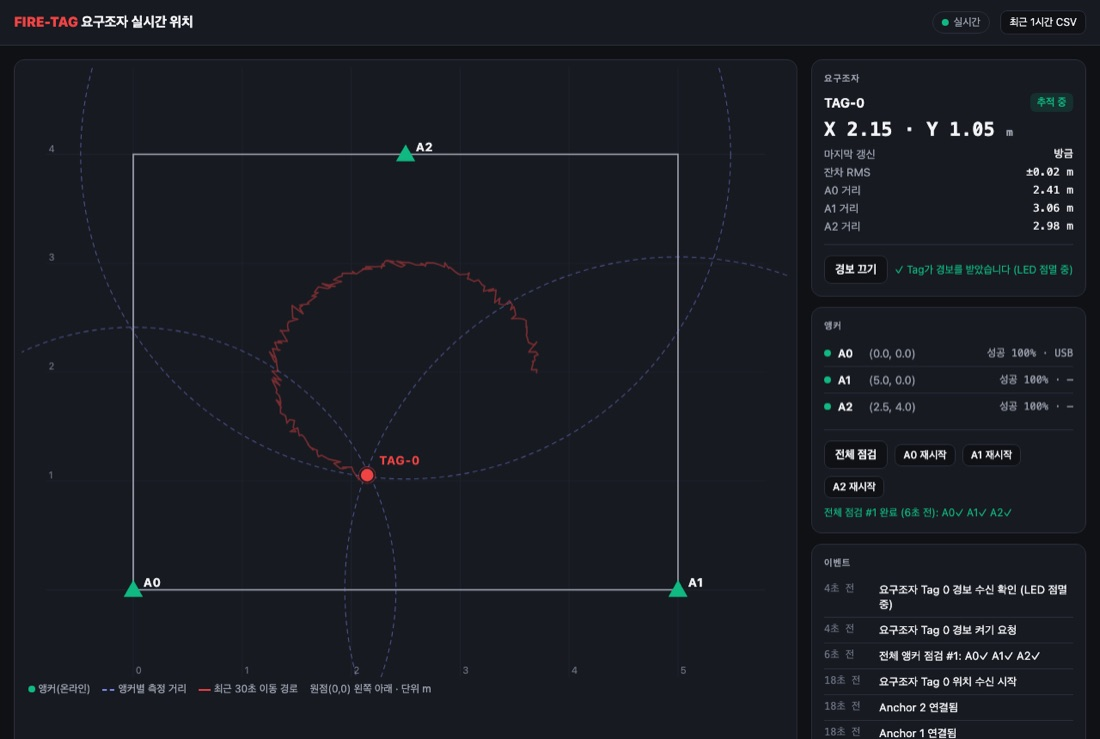
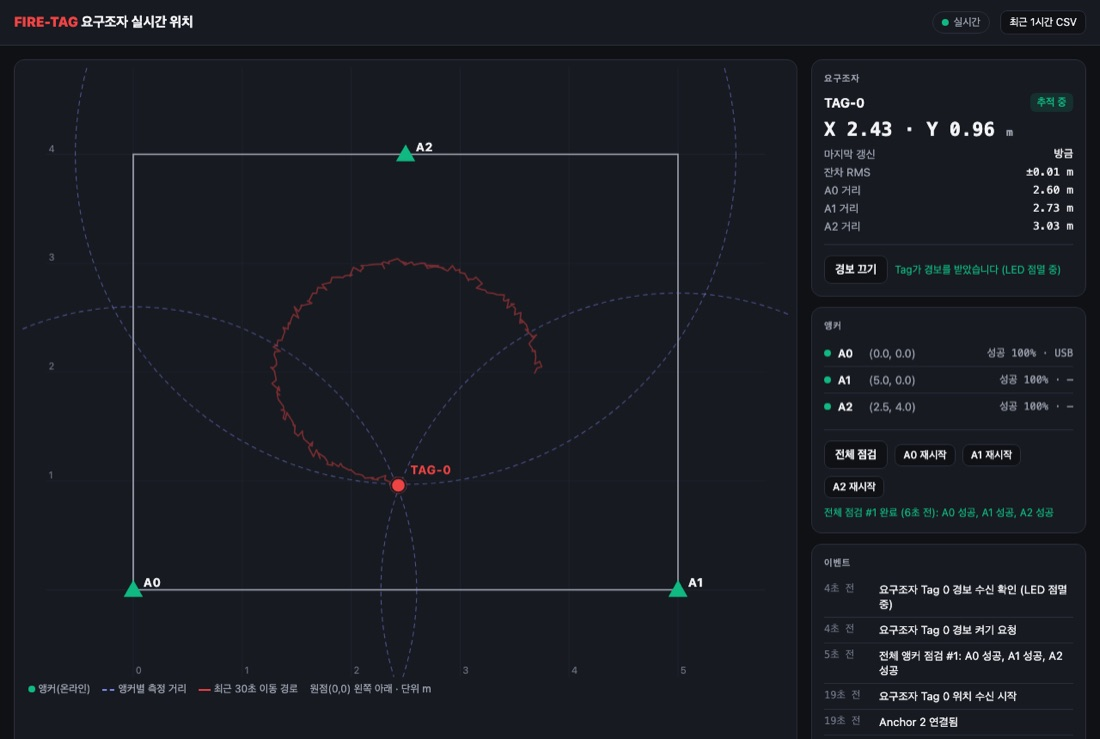
style: 명령 결과와 경보 확인을 기호 대신 글자로 표시
대시보드와 이벤트 기록의 체크 기호를 글자로 바꾼다.

- 점검 결과: 'A0✓ A1✓ A2✓' → 'A0 성공, A1 성공, A2 성공'
- 경보 확인: '✓ Tag가 경보를 받았습니다' → 'Tag가 경보를 받았습니다'
- docs/images의 화면 캡처를 바뀐 화면으로 다시 찍음

표시 문구만 바뀌고 동작은 같다.

diff --git a/raspberrypi/web/index.html b/raspberrypi/web/index.html
@@ -323,7 +323,7 @@ function renderEvents(state) {
 }
 
 // ---- controls (Pi -> anchors -> tag)
-const ACK_ICON = ok => (ok ? "✓" : "✗");
+const ACK_TEXT = ok => (ok ? "성공" : "실패");
 let alertTag = 0;
 let alertDesired = false;
 let rebootKey = "";
@@ -368,7 +368,7 @@ function renderControls(state) {
   btn.textContent = alertDesired ? "경보 끄기" : "경보 켜기";
   btn.className = alertDesired ? "" : "danger";
   if (!tag) note("alertNote", "Tag 위치가 수신되면 경보를 보낼 수 있습니다");
-  else if (alertDesired && tag.alert_confirmed) note("alertNote", "✓ Tag가 경보를 받았습니다 (LED 점멸 중)", "ok");
+  else if (alertDesired && tag.alert_confirmed) note("alertNote", "Tag가 경보를 받았습니다 (LED 점멸 중)", "ok");
   else if (alertDesired) note("alertNote", tag.lost ? "Tag 연결이 끊겨 전달 대기 중…" : "앵커를 거쳐 Tag로 전달 중…");
   else if (tag.alert_confirmed) note("alertNote", "경보 해제 전달 중…");
   else note("alertNote", "요구조자 Tag의 LED를 깜빡여 구조 접근을 알립니다");
@@ -393,7 +393,7 @@ function renderControls(state) {
   const c = state.commands[0];
   if (c) {
     const label = `${c.target === "all" ? "전체" : `A${c.target}`} ${c.cmd === "ping" ? "점검" : "재시작"} #${c.id}`;
-    const acks = Object.entries(c.acks).map(([a, ok]) => `A${a}${ACK_ICON(ok)}`).join(" ");
+    const acks = Object.entries(c.acks).map(([a, ok]) => `A${a} ${ACK_TEXT(ok)}`).join(", ");
     if (c.status === "done") note("cmdNote", `${label} 완료 (${ago(c.age_s)}): ${acks}`, "ok");
     else if (c.status === "failed") note("cmdNote", `${label} 실패 (${ago(c.age_s)}): ${acks || "응답 없음"} — 이벤트 참고`, "bad");
     else note("cmdNote", `${label} 전송 중… ${acks}`);

diff --git a/raspberrypi/fire_tag_receiver.py b/raspberrypi/fire_tag_receiver.py
@@ -419,7 +419,7 @@ class Receiver:
         if expected <= {int(a) for a in acks}:
             ok = all(acks[str(a)] for a in expected)
             self.store.update_command(row["id"], status="done" if ok else "failed", acks=json.dumps(acks))
-            result = " ".join(f"A{a}{'✓' if acks[str(a)] else '✗'}" for a in sorted(expected))
+            result = ", ".join(f"A{a} {'성공' if acks[str(a)] else '실패'}" for a in sorted(expected))
             self.event("command_done" if ok else "command_failed", f"{self.command_label(row)}: {result}")
         else:
             self.store.update_command(row["id"], acks=json.dumps(acks))
